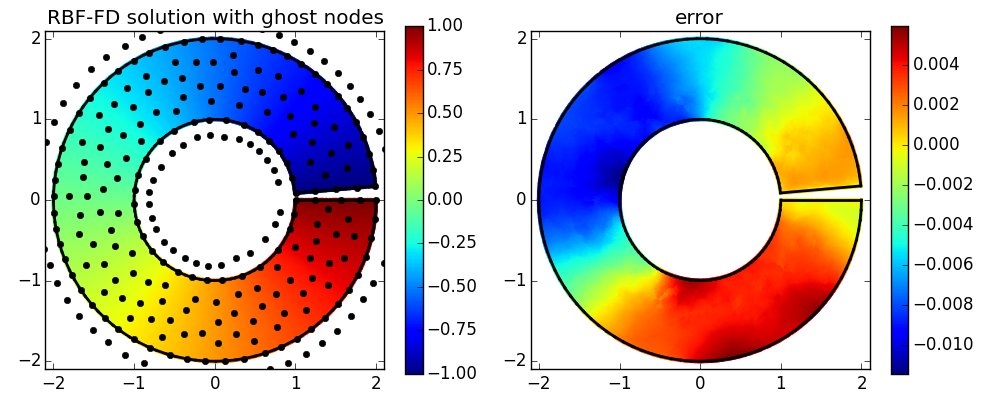
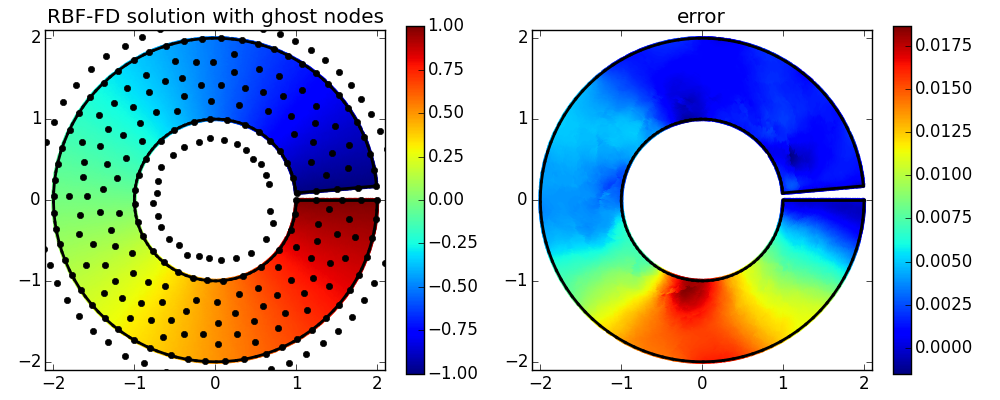
added more

diff --git a/rbf/stencil.py b/rbf/stencil.py
@@ -31,6 +31,7 @@ def stencils_to_edges(stencils):
   edges : (K,2) int array
 
   '''
+  stencils = np.asarray(stencils)
   N,S = stencils.shape
   node1 = np.arange(N)[:,None].repeat(S,axis=1)
   node2 = np.array(stencils,copy=True)
@@ -93,8 +94,8 @@ def _argsort_closest(c,x):
 def _has_edge_intersections(c,x,vert,smp,check_all_edges):
   ''' 
   Check if any of the edges (*c*,*x[i]*) intersect the boundary 
-  defined by *vert* and *smp*. If *all_edges* is True then the edges 
-  (*x[i]*,*x[j]*) are also tested.
+  defined by *vert* and *smp*. If *check_all_edges* is True then the 
+  edges (*x[i]*,*x[j]*) are also tested.
   '''
   N = len(x)
   cext = np.repeat(c[None,:],N,axis=0)
@@ -171,10 +172,10 @@ def stencil_network(x,p,n,vert=None,smp=None,check_all_edges=False):
     Stencil size
 
   vert : (P,D) array, optional
-    vertices making up the boundary which stencils cannot intersect
+    Vertices making up the boundary which stencils cannot intersect
 
   smp : (Q,D) array, optional
-    connectivity of vertices in *vert*
+    Connectivity of vertices in *vert*
 
   check_all_edges : bool, optional
     If False then a stencil centered on *x[i]* will not contain any 
@@ -206,3 +207,37 @@ def stencil_network(x,p,n,vert=None,smp=None,check_all_edges=False):
 
   return sn
 
+
+def nearest(x,p,n,vert=None,smp=None):
+  ''' 
+  Returns the *n* nearest points in *p* for each point in *x*. Nearest 
+  neighbors cannot extend across the boundary defined by *vert* and 
+  *smp*
+  
+  Parameters
+  ----------
+  x : (N,D) array
+    Query points.
+
+  p : (M,D) array
+    Population points.
+
+  vert : (P,D) array, optional     
+    Vertices making up a boundary 
+
+  smp : (Q,D) array, optional  
+    Connectivity of vertices in *vert*
+    
+  Returns
+  -------
+  idx : (N,D) array
+    Indices of nearest points in *p*
+
+  dist : (N,D) array
+    Distance to the nearest points in *p*  
+
+  '''
+  idx = stencil_network(x,p,n,vert=vert,smp=smp,check_all_edges=False)
+  dist = np.sqrt(np.sum((x[:,None,:] - p[idx])**2,axis=2))
+  return idx,dist
+  

diff --git a/rbf/nodes.py b/rbf/nodes.py
@@ -37,7 +37,7 @@ def _nearest_neighbor_argsort(nodes,n=10):
   n = min(n,nodes.shape[0])
 
   # find the indices of the nearest N nodes for each node
-  idx = rbf.stencil.stencil_network(nodes,nodes,n)
+  idx,dist = rbf.stencil.nearest(nodes,nodes,n)
 
   # efficiently form adjacency matrix
   col = idx.flatten()
@@ -68,8 +68,7 @@ def _repel_step(free_nodes,rho,fix_nodes,
   nodes = np.vstack((free_nodes,fix_nodes))
 
   # find index and distance to nearest nodes
-  i = rbf.stencil.stencil_network(free_nodes,nodes,n,vert,smp,check_all_edges=False)
-  d = np.sqrt(np.sum((free_nodes[:,None,:] - nodes[i])**2,axis=2))
+  i,d = rbf.stencil.nearest(free_nodes,nodes,n,vert=vert,smp=smp)
 
   # dont consider a node to be one of its own nearest neighbors
   i = i[:,1:]

diff --git a/demo/pde/fd/2d/ghosts.py b/demo/pde/fd/2d/ghosts.py
@@ -54,7 +54,7 @@ def make_ghost_nodes(nodes,smpid,idx,vert,smp):
     raise ValueError('cannot make a ghost node for an interior node')
     
   norms = simplex_outward_normals(vert,smp)[sub_smpid]
-  dx,dummy = cKDTree(nodes).query(sub_nodes,2)
+  dummy,dx = rbf.stencil.nearest(sub_nodes,nodes,2,vert=vert,smp=smp)
   # distance to the nearest neighbors
   dx = dx[:,[1]]
   ghosts = sub_nodes + dx*norms   
